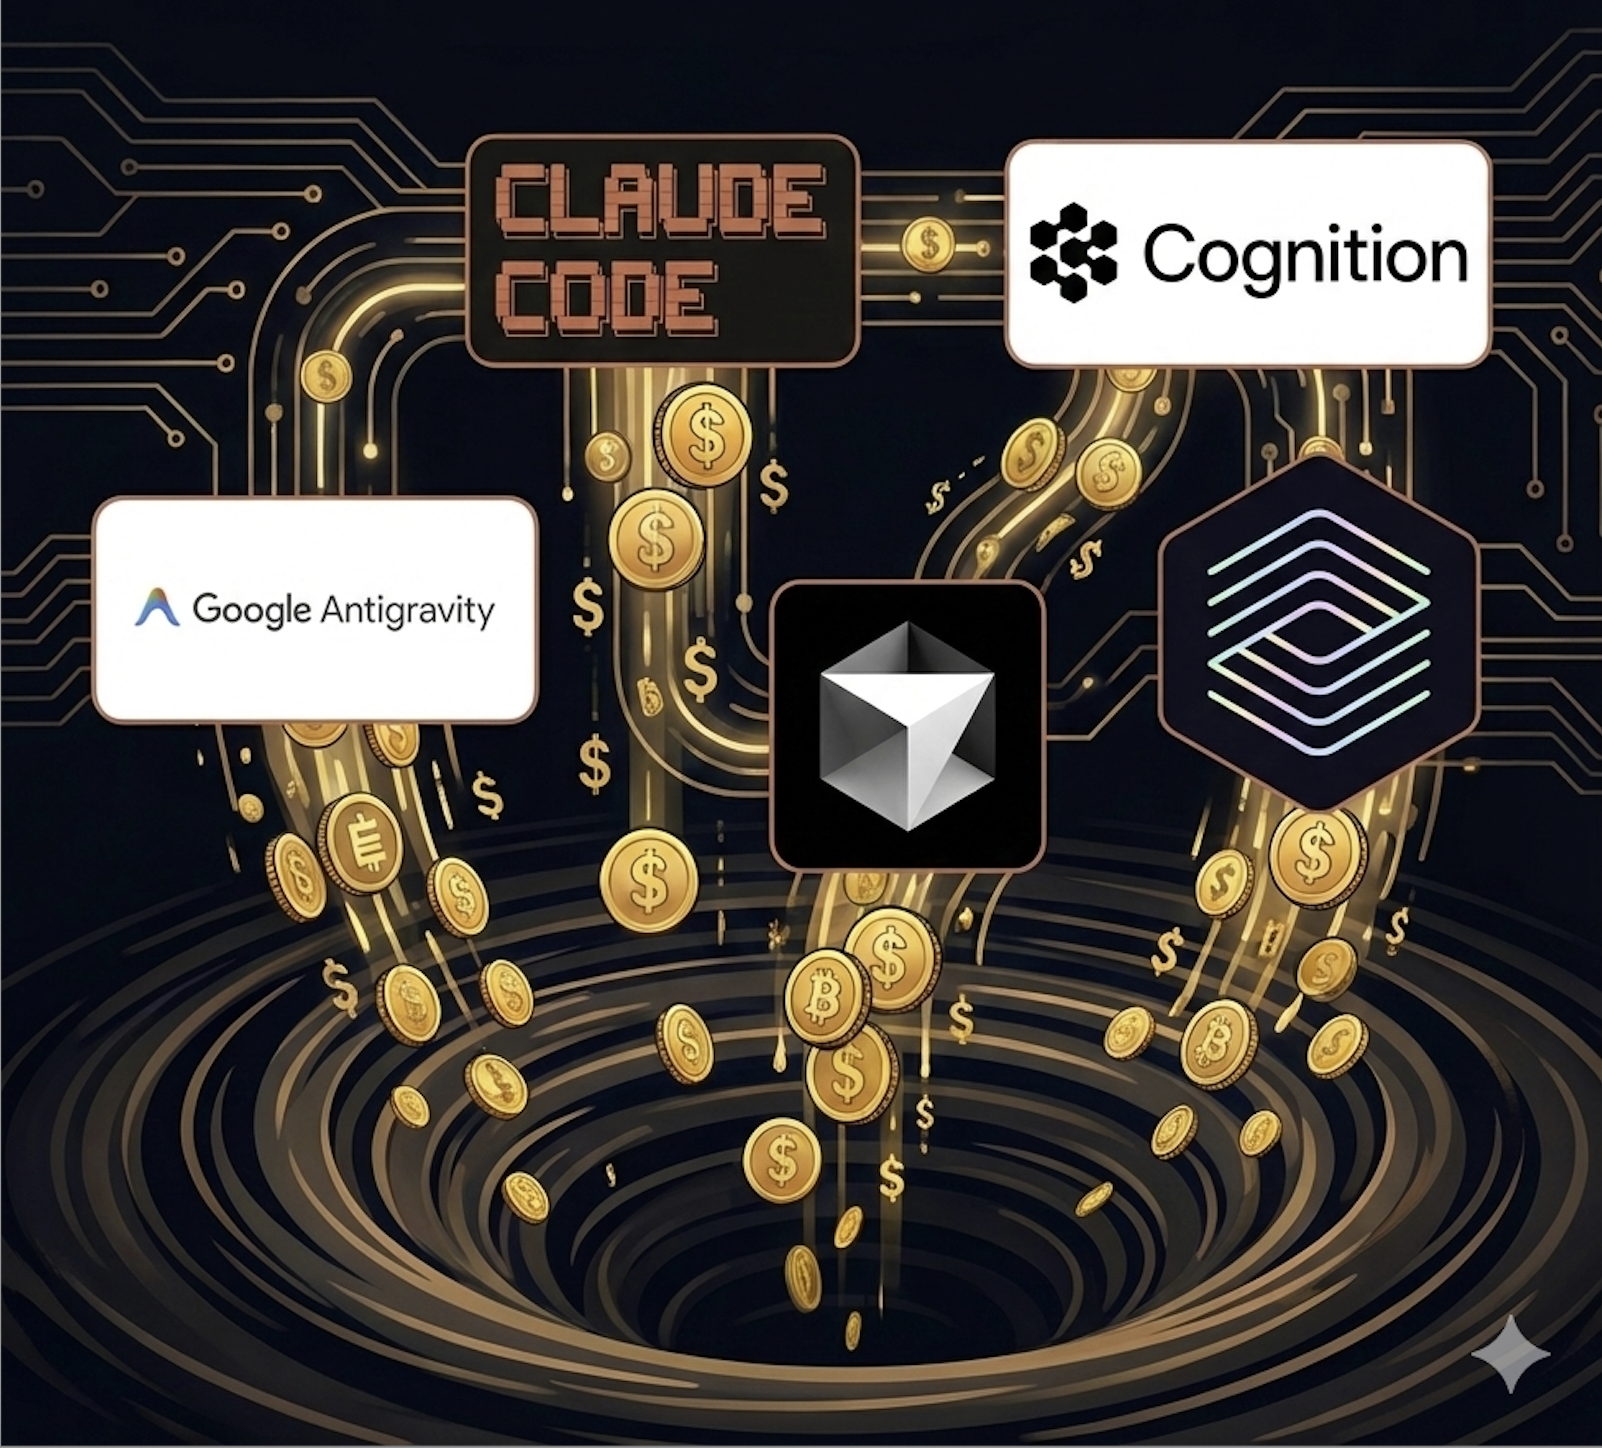
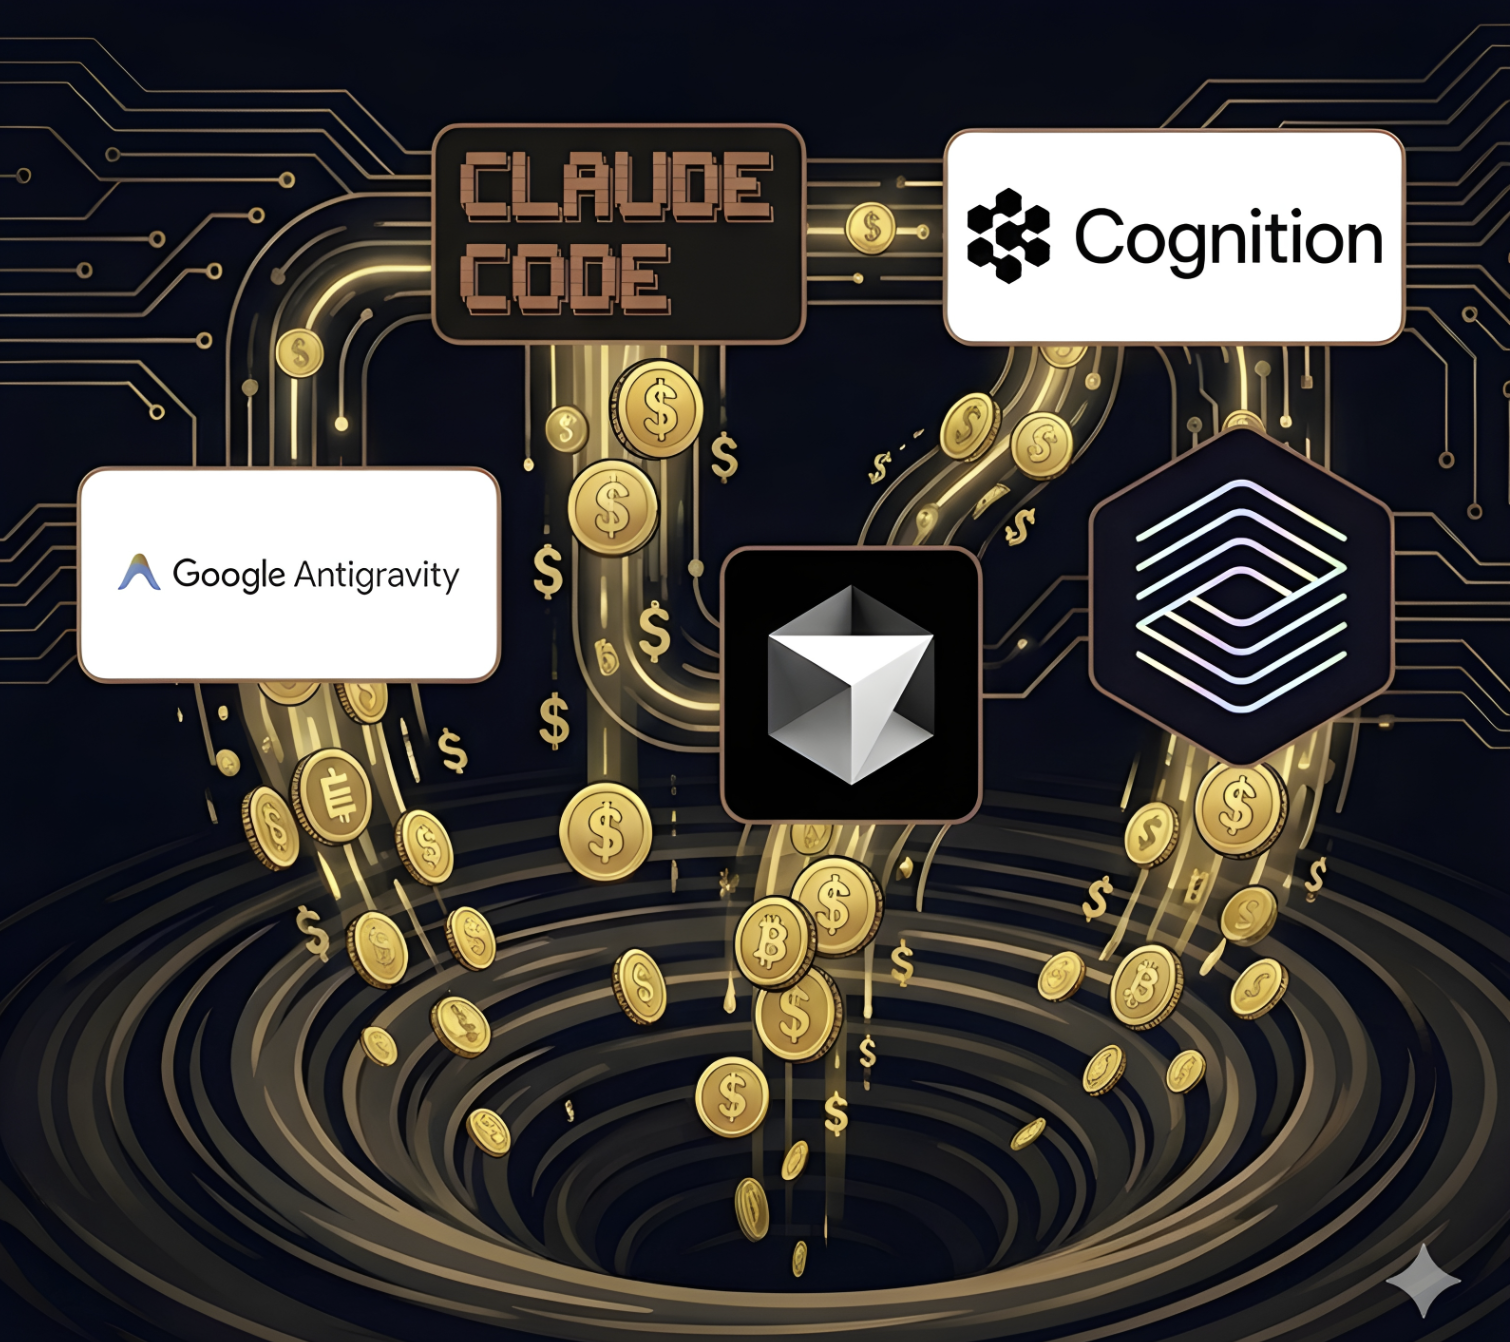
image

diff --git a/content/posts/kv_agent.md b/content/posts/kv_agent.md
@@ -24,9 +24,9 @@ However, the efficiency of these agents has just rised to our attention.
 In this blog post, we will discuss why agents are efficiency nightmares, how we can make them (somewhat) better with KV cache management, 
 and where we could be going for these tasks.
 
-![Agent Efficiency](/images/agent_kv/front.png)
+<img src="/assets/images/agent_kv/front.png" alt="Agent Efficiency" style="width: 60%; display: block; margin: 0 auto;">
 
-## Wonderful Agents Draining Your Bank Account. 
+## Wonderful Agents Draining Your Bank Account.
 [Claude Code](https://www.claude.com/product/claude-code) has quietly become one of the most interesting & widely-adopted real-world agentic systems available to normal developers.
 <!-- Talk about agent applicaitons, some benchmarks on the cost -->
 
